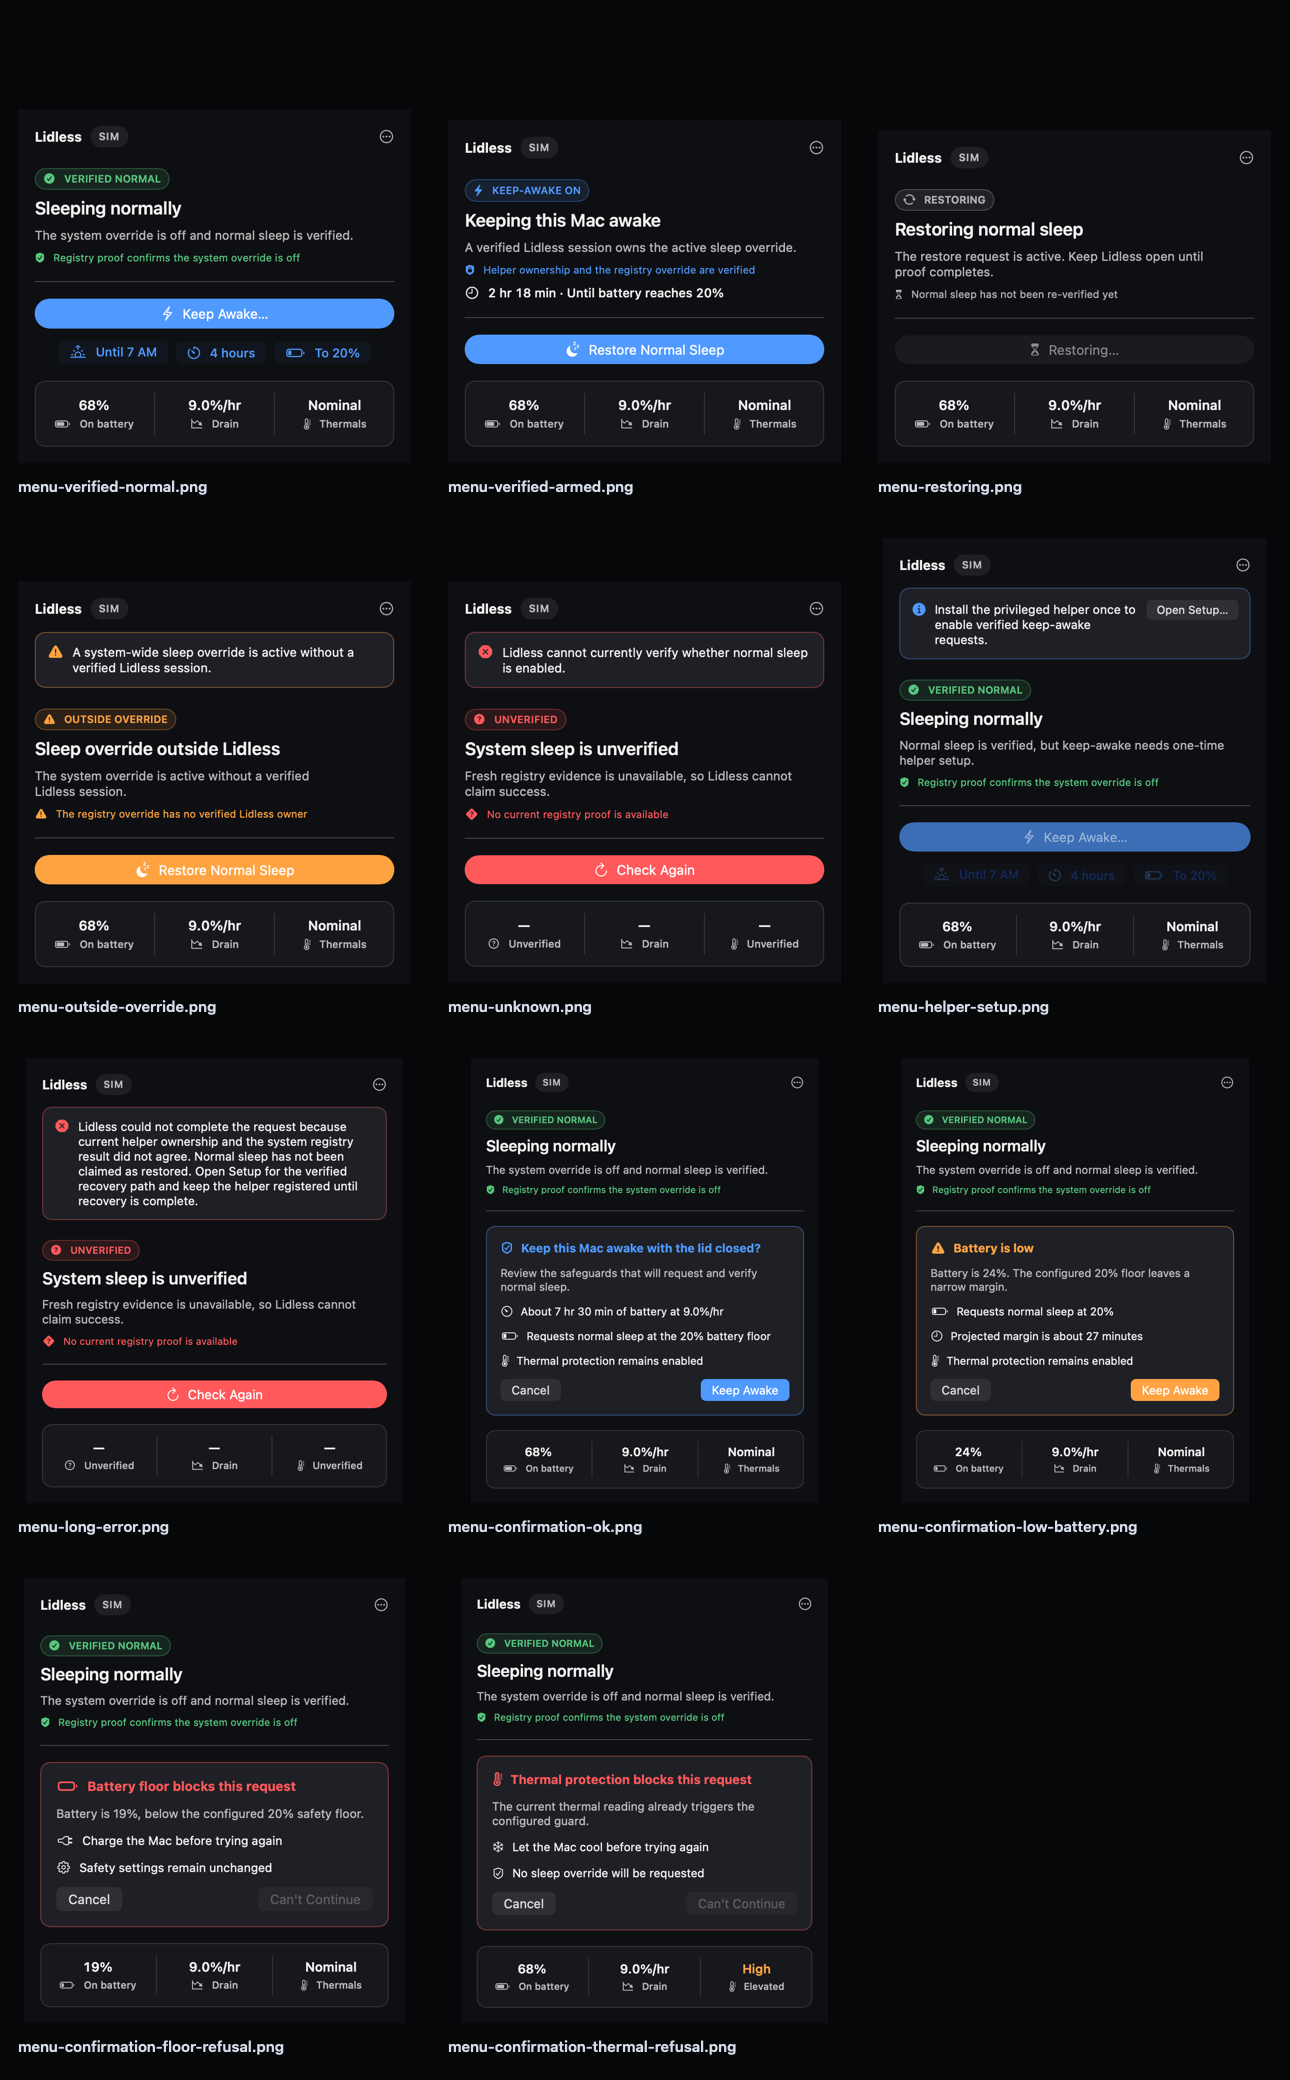
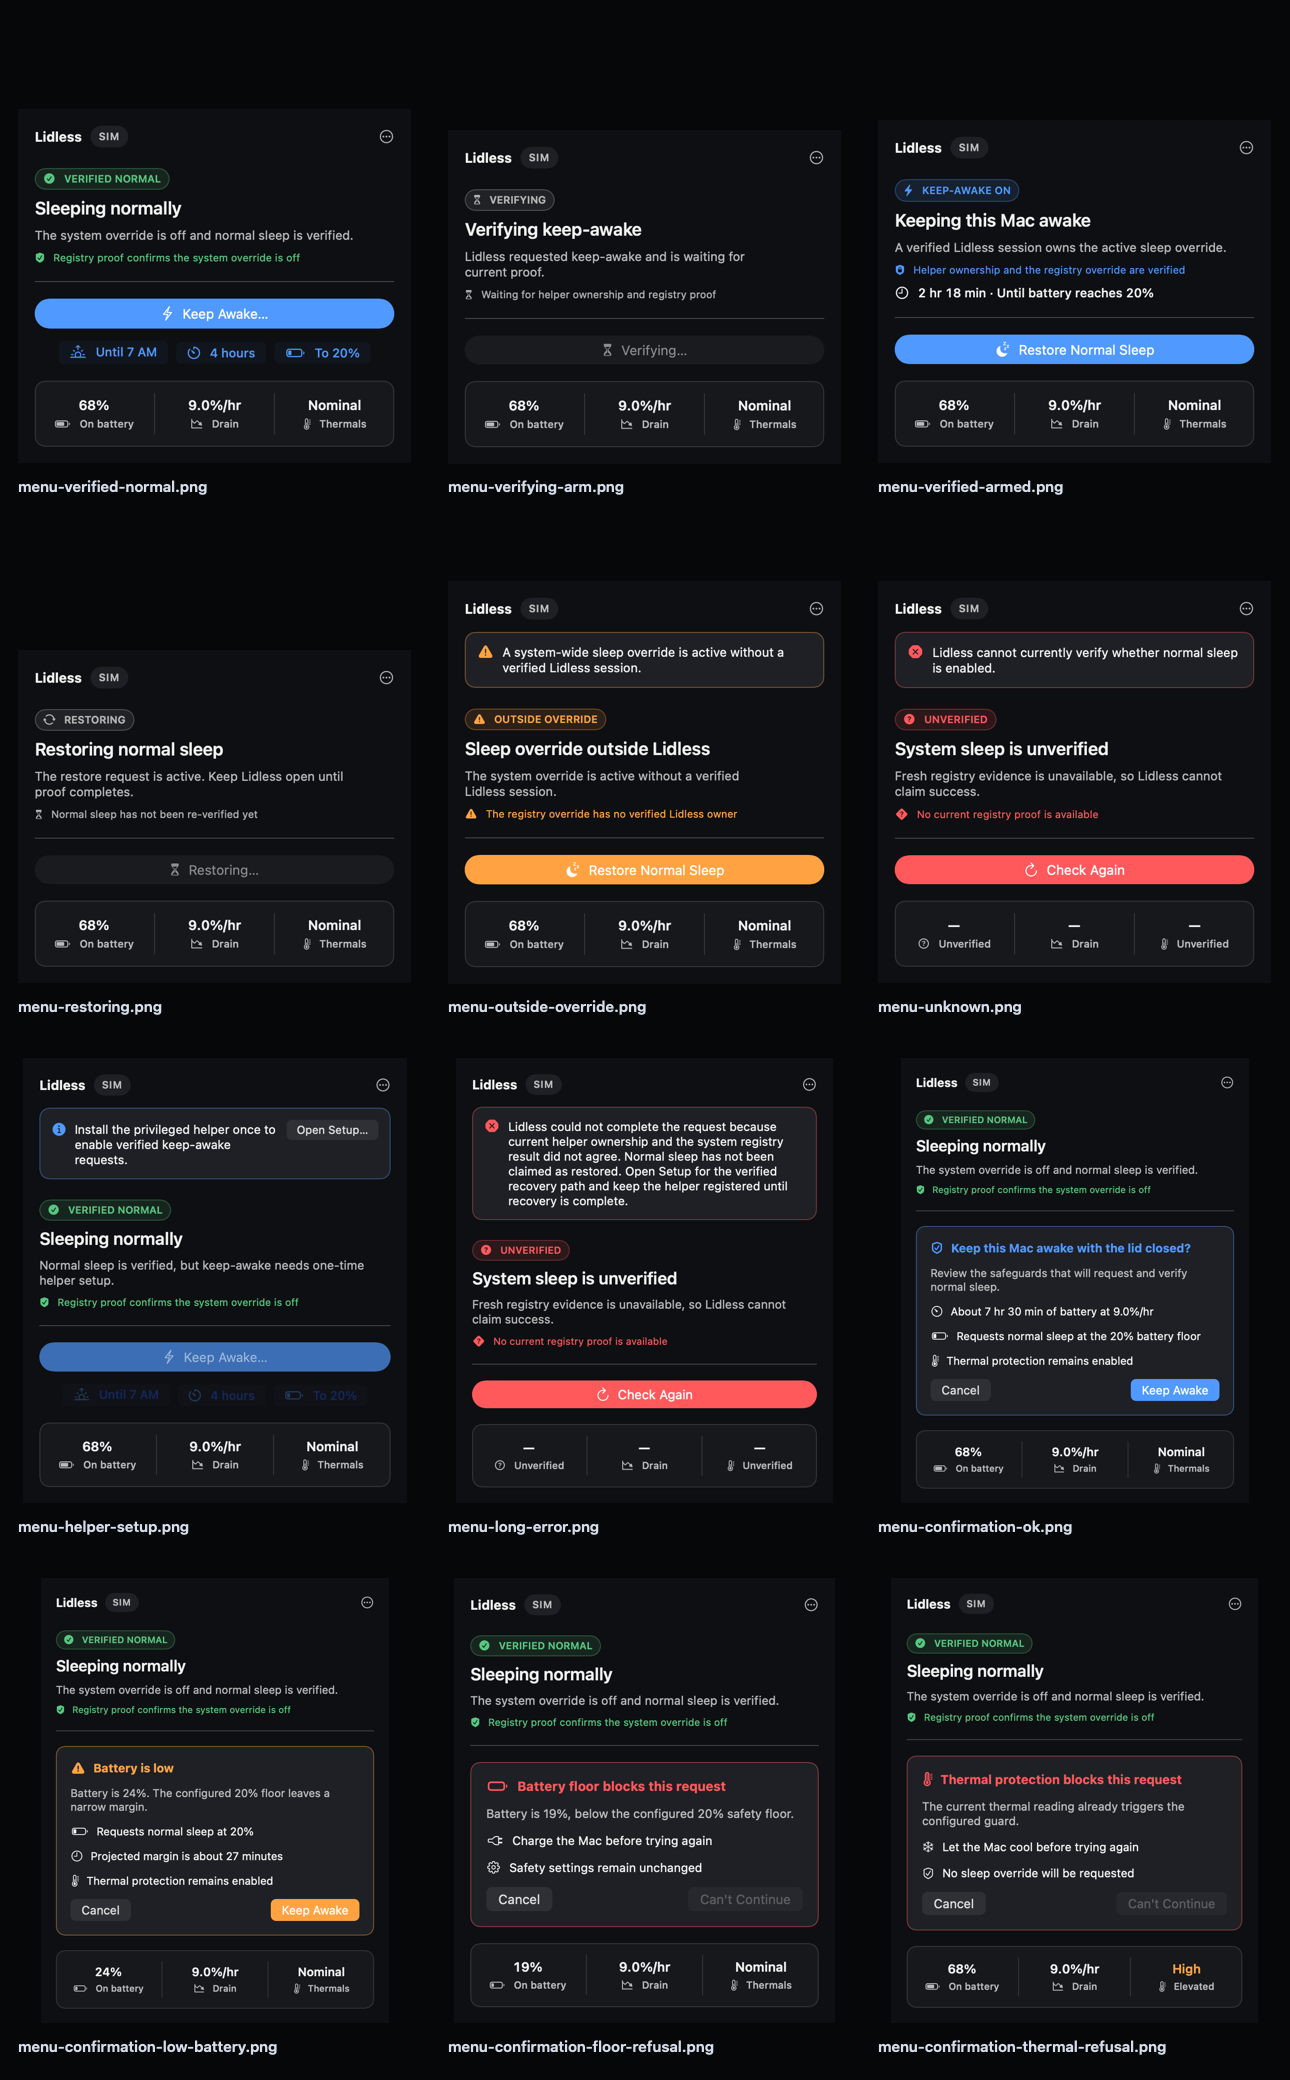
test: cover overview transition states visually

diff --git a/App/Sources/Services/ScreenshotRenderer.swift b/App/Sources/Services/ScreenshotRenderer.swift
@@ -35,6 +35,7 @@ struct InstrumentRenderBanner {
 /// persist, and are admitted only by the guarded simulation renderer below.
 enum InstrumentRenderScenario: String, CaseIterable {
     case verifiedNormal
+    case verifyingArm
     case confirmationOK
     case confirmationLowBattery
     case confirmationFloorRefusal
@@ -48,6 +49,7 @@ enum InstrumentRenderScenario: String, CaseIterable {
 
     static let panelMatrix: [InstrumentRenderScenario] = [
         .verifiedNormal,
+        .verifyingArm,
         .confirmationOK,
         .confirmationLowBattery,
         .confirmationFloorRefusal,
@@ -67,6 +69,18 @@ enum InstrumentRenderScenario: String, CaseIterable {
         .unknown,
     ]
 
+    /// Transient and decision states have taller, more variable content than
+    /// the steady-state overview. Render each at every supported shell size so
+    /// confirmations and progress affordances cannot silently clip.
+    static let shellTransitionMatrix: [InstrumentRenderScenario] = [
+        .verifyingArm,
+        .restoring,
+        .confirmationOK,
+        .confirmationLowBattery,
+        .confirmationFloorRefusal,
+        .confirmationThermalRefusal,
+    ]
+
     var presentation: SleepPresentationState {
         switch self {
         case .verifiedNormal,
@@ -76,6 +90,8 @@ enum InstrumentRenderScenario: String, CaseIterable {
              .confirmationThermalRefusal,
              .helperSetup:
             .verifiedNormal
+        case .verifyingArm:
+            .verifyingArm
         case .verifiedArmed:
             .verifiedArmed
         case .restoring:
@@ -92,6 +108,7 @@ enum InstrumentRenderScenario: String, CaseIterable {
     var panelFilename: String {
         switch self {
         case .verifiedNormal: "menu-verified-normal.png"
+        case .verifyingArm: "menu-verifying-arm.png"
         case .confirmationOK: "menu-confirmation-ok.png"
         case .confirmationLowBattery: "menu-confirmation-low-battery.png"
         case .confirmationFloorRefusal: "menu-confirmation-floor-refusal.png"
@@ -108,7 +125,13 @@ enum InstrumentRenderScenario: String, CaseIterable {
     var slug: String {
         switch self {
         case .verifiedNormal: "verified-normal"
+        case .verifyingArm: "verifying-arm"
+        case .confirmationOK: "confirmation-ok"
+        case .confirmationLowBattery: "confirmation-low-battery"
+        case .confirmationFloorRefusal: "confirmation-floor-refusal"
+        case .confirmationThermalRefusal: "confirmation-thermal-refusal"
         case .verifiedArmed: "verified-armed"
+        case .restoring: "restoring"
         case .outsideOverride: "outside-override"
         case .unknown: "unknown"
         default: rawValue
@@ -136,6 +159,8 @@ enum InstrumentRenderScenario: String, CaseIterable {
             "The system override is off and normal sleep is verified."
         case .verifiedArmed:
             "A verified Lidless session owns the active sleep override."
+        case .verifyingArm:
+            "Lidless requested keep-awake and is waiting for current proof."
         case .restoring:
             "The restore request is active. Keep Lidless open until proof completes."
         case .outsideOverride:
@@ -262,7 +287,7 @@ enum InstrumentRenderScenario: String, CaseIterable {
 
     var primaryActionAvailable: Bool {
         switch self {
-        case .restoring, .helperSetup:
+        case .verifyingArm, .restoring, .helperSetup:
             false
         default:
             confirmation == nil
@@ -411,6 +436,15 @@ enum ScreenshotRenderer {
 
         for size in ShellRenderSize.allCases {
             for scenario in InstrumentRenderScenario.shellMatrix {
+                try write(
+                    shell(state, scenario: scenario, size: size.size),
+                    to: outputDirectory.appendingPathComponent(
+                        size.filename(for: scenario)
+                    )
+                )
+            }
+
+            for scenario in InstrumentRenderScenario.shellTransitionMatrix {
                 try write(
                     shell(state, scenario: scenario, size: size.size),
                     to: outputDirectory.appendingPathComponent(

diff --git a/Packages/LidlessCore/Tests/LidlessCoreTests/VisualSystemSourceTests.swift b/Packages/LidlessCore/Tests/LidlessCoreTests/VisualSystemSourceTests.swift
@@ -40,6 +40,7 @@ struct VisualSystemSourceTests {
 
         for scenario in [
             "case verifiedNormal",
+            "case verifyingArm",
             "case confirmationOK",
             "case confirmationLowBattery",
             "case confirmationFloorRefusal",
@@ -56,6 +57,7 @@ struct VisualSystemSourceTests {
 
         for filename in [
             "menu-verified-normal.png",
+            "menu-verifying-arm.png",
             "menu-confirmation-ok.png",
             "menu-confirmation-low-battery.png",
             "menu-confirmation-floor-refusal.png",
@@ -104,6 +106,45 @@ struct VisualSystemSourceTests {
         #expect(renderer.contains("for size in ShellRenderSize.allCases"))
         #expect(renderer.contains("for scenario in InstrumentRenderScenario.shellMatrix"))
         #expect(renderer.contains("MainWindowView(renderScenario: scenario)"))
+    }
+
+    @Test func overviewTransitionEvidenceCoversProgressAndConfirmationsAtEverySize() throws {
+        let menu = try repositoryFile("App/Sources/UI/MenuBar/MenuPanelView.swift")
+        let overview = try repositoryFile("App/Sources/UI/Main/OverviewPane.swift")
+        let renderer = try repositoryFile("App/Sources/Services/ScreenshotRenderer.swift")
+        let contactSheet = try repositoryFile("Scripts/VisualQA/ContactSheet.swift")
+
+        #expect(renderer.contains("case verifyingArm"))
+        #expect(renderer.contains("static let shellTransitionMatrix"))
+        for scenario in [
+            ".verifyingArm",
+            ".restoring",
+            ".confirmationOK",
+            ".confirmationLowBattery",
+            ".confirmationFloorRefusal",
+            ".confirmationThermalRefusal",
+        ] {
+            #expect(renderer.contains(scenario))
+        }
+
+        #expect(overview.contains("if let confirmation = renderScenario?.confirmation"))
+        #expect(overview.contains("RenderArmConfirmationCard(confirmation: confirmation)"))
+        #expect(menu.contains("struct RenderArmConfirmationCard: View"))
+        #expect(!menu.contains("private struct RenderArmConfirmationCard: View"))
+
+        for slug in [
+            "verifying-arm",
+            "restoring",
+            "confirmation-ok",
+            "confirmation-low-battery",
+            "confirmation-floor-refusal",
+            "confirmation-thermal-refusal",
+        ] {
+            for size in ["minimum", "default", "wide"] {
+                #expect(contactSheet.contains("window-\(size)-\(slug).png"))
+            }
+        }
+        #expect(contactSheet.contains("window-transition-contact-sheet.png"))
     }
 
     @Test func longErrorFixtureCannotClaimVerifiedNormalState() throws {

diff --git a/Scripts/VisualQA/ContactSheet.swift b/Scripts/VisualQA/ContactSheet.swift
@@ -17,6 +17,7 @@ private let sheets = [
         columns: 3,
         images: [
             "menu-verified-normal.png",
+            "menu-verifying-arm.png",
             "menu-verified-armed.png",
             "menu-restoring.png",
             "menu-outside-override.png",
@@ -47,6 +48,32 @@ private let sheets = [
             "window-minimum-unknown.png",
             "window-default-unknown.png",
             "window-wide-unknown.png",
+        ]
+    ),
+    Sheet(
+        filename: "window-transition-contact-sheet.png",
+        width: 1_500,
+        height: 2_200,
+        columns: 3,
+        images: [
+            "window-minimum-verifying-arm.png",
+            "window-default-verifying-arm.png",
+            "window-wide-verifying-arm.png",
+            "window-minimum-restoring.png",
+            "window-default-restoring.png",
+            "window-wide-restoring.png",
+            "window-minimum-confirmation-ok.png",
+            "window-default-confirmation-ok.png",
+            "window-wide-confirmation-ok.png",
+            "window-minimum-confirmation-low-battery.png",
+            "window-default-confirmation-low-battery.png",
+            "window-wide-confirmation-low-battery.png",
+            "window-minimum-confirmation-floor-refusal.png",
+            "window-default-confirmation-floor-refusal.png",
+            "window-wide-confirmation-floor-refusal.png",
+            "window-minimum-confirmation-thermal-refusal.png",
+            "window-default-confirmation-thermal-refusal.png",
+            "window-wide-confirmation-thermal-refusal.png",
         ]
     ),
     Sheet(

diff --git a/App/Sources/UI/Main/OverviewPane.swift b/App/Sources/UI/Main/OverviewPane.swift
@@ -28,7 +28,9 @@ struct OverviewContent: View {
         VStack(alignment: .leading, spacing: Theme.s4) {
             statusCard
 
-            if renderScenario == nil, let pending = state.pendingArm {
+            if let confirmation = renderScenario?.confirmation {
+                RenderArmConfirmationCard(confirmation: confirmation)
+            } else if let pending = state.pendingArm {
                 ArmConfirmCard(pending: pending)
             }
 

diff --git a/App/Sources/UI/MenuBar/MenuPanelView.swift b/App/Sources/UI/MenuBar/MenuPanelView.swift
@@ -483,7 +483,7 @@ struct MenuPanelContent: View {
 
 // MARK: - Deterministic confirmation surface
 
-private struct RenderArmConfirmationCard: View {
+struct RenderArmConfirmationCard: View {
     let confirmation: InstrumentRenderConfirmation
 
     private var tint: Color {
